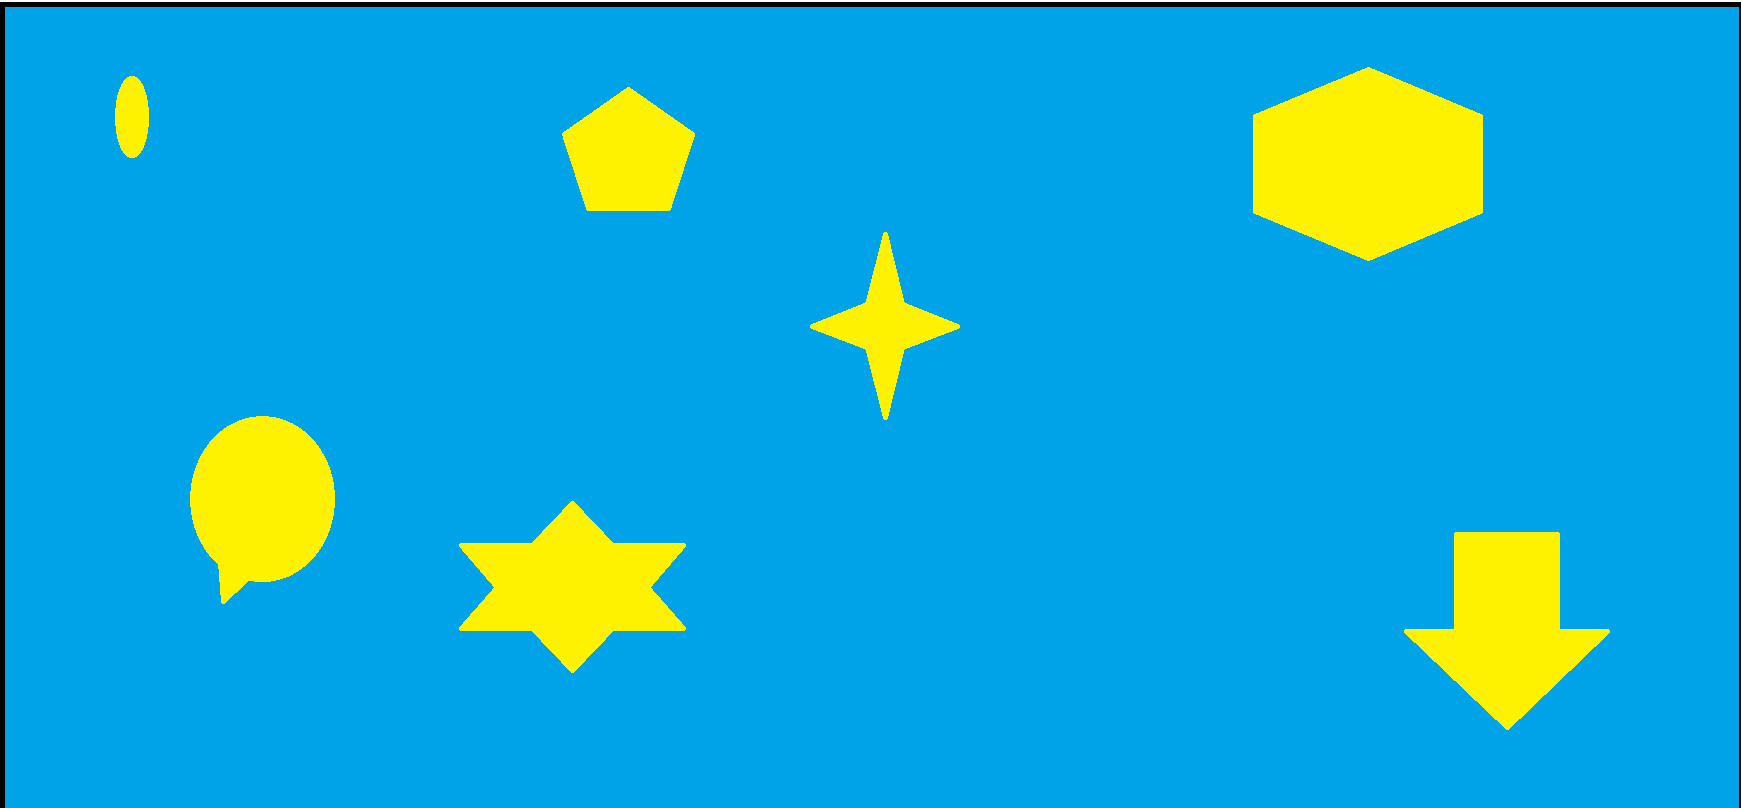
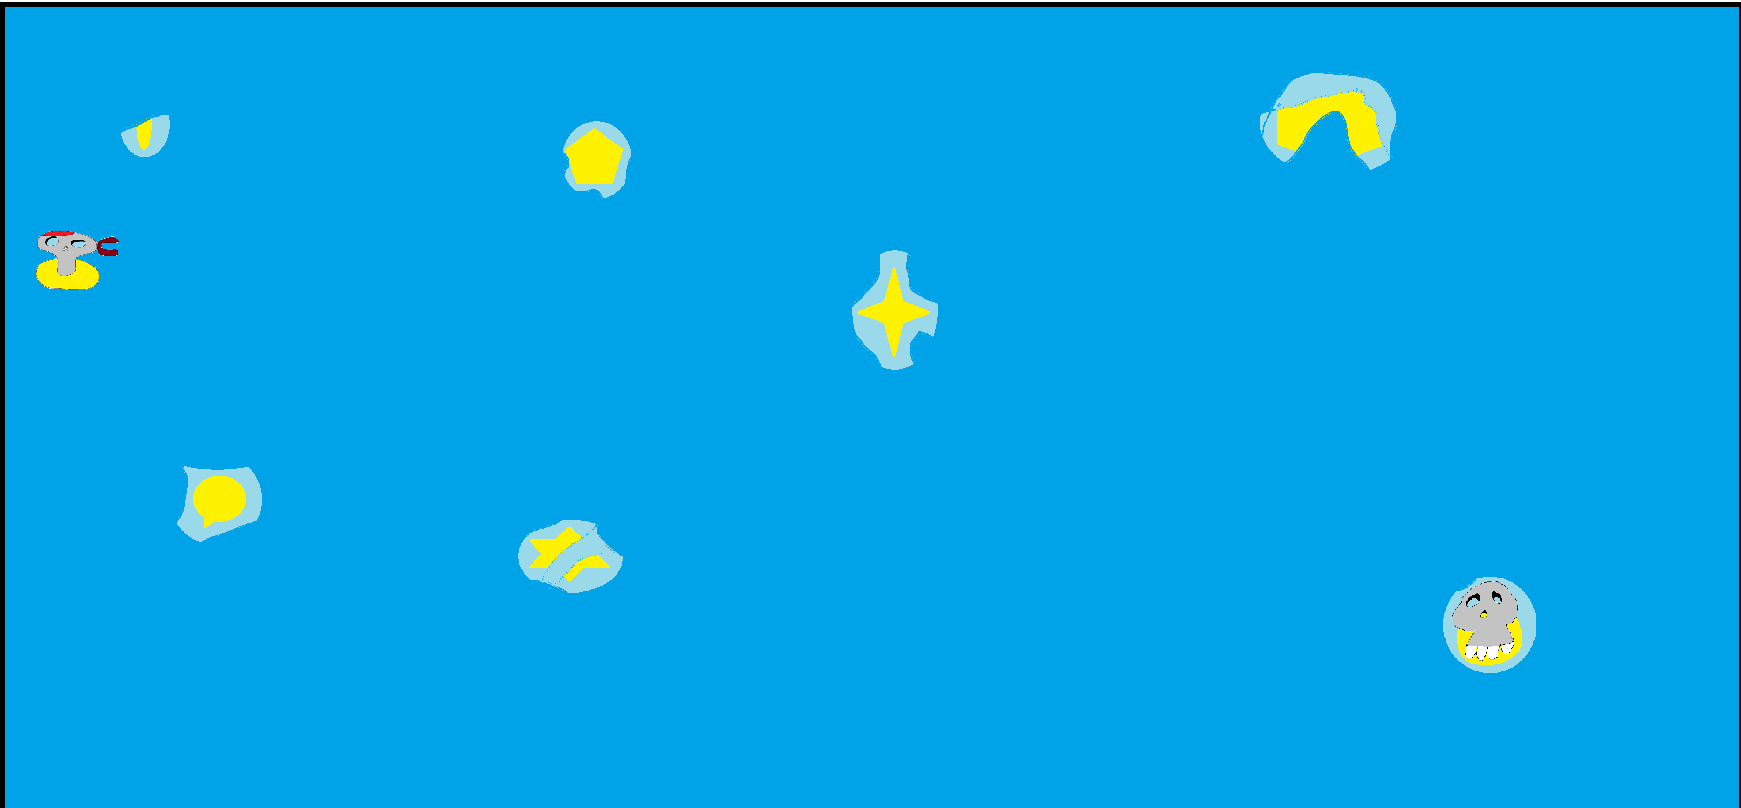
new image

diff --git a/src/TelescopeMiniGame.tsx b/src/TelescopeMiniGame.tsx
@@ -23,7 +23,7 @@ export const TelescopeMiniGame = () => {
             <div
                 className="absolute inset-0 bg-black"
                 style={{
-                    maskImage: `radial-gradient(circle at ${position.x}px ${position.y}px, transparent 100px, black 150px)`
+                    maskImage: `radial-gradient(circle at ${position.x}px ${position.y}px, transparent 50px, black 75px)`
                 }}
             />
         </div>
